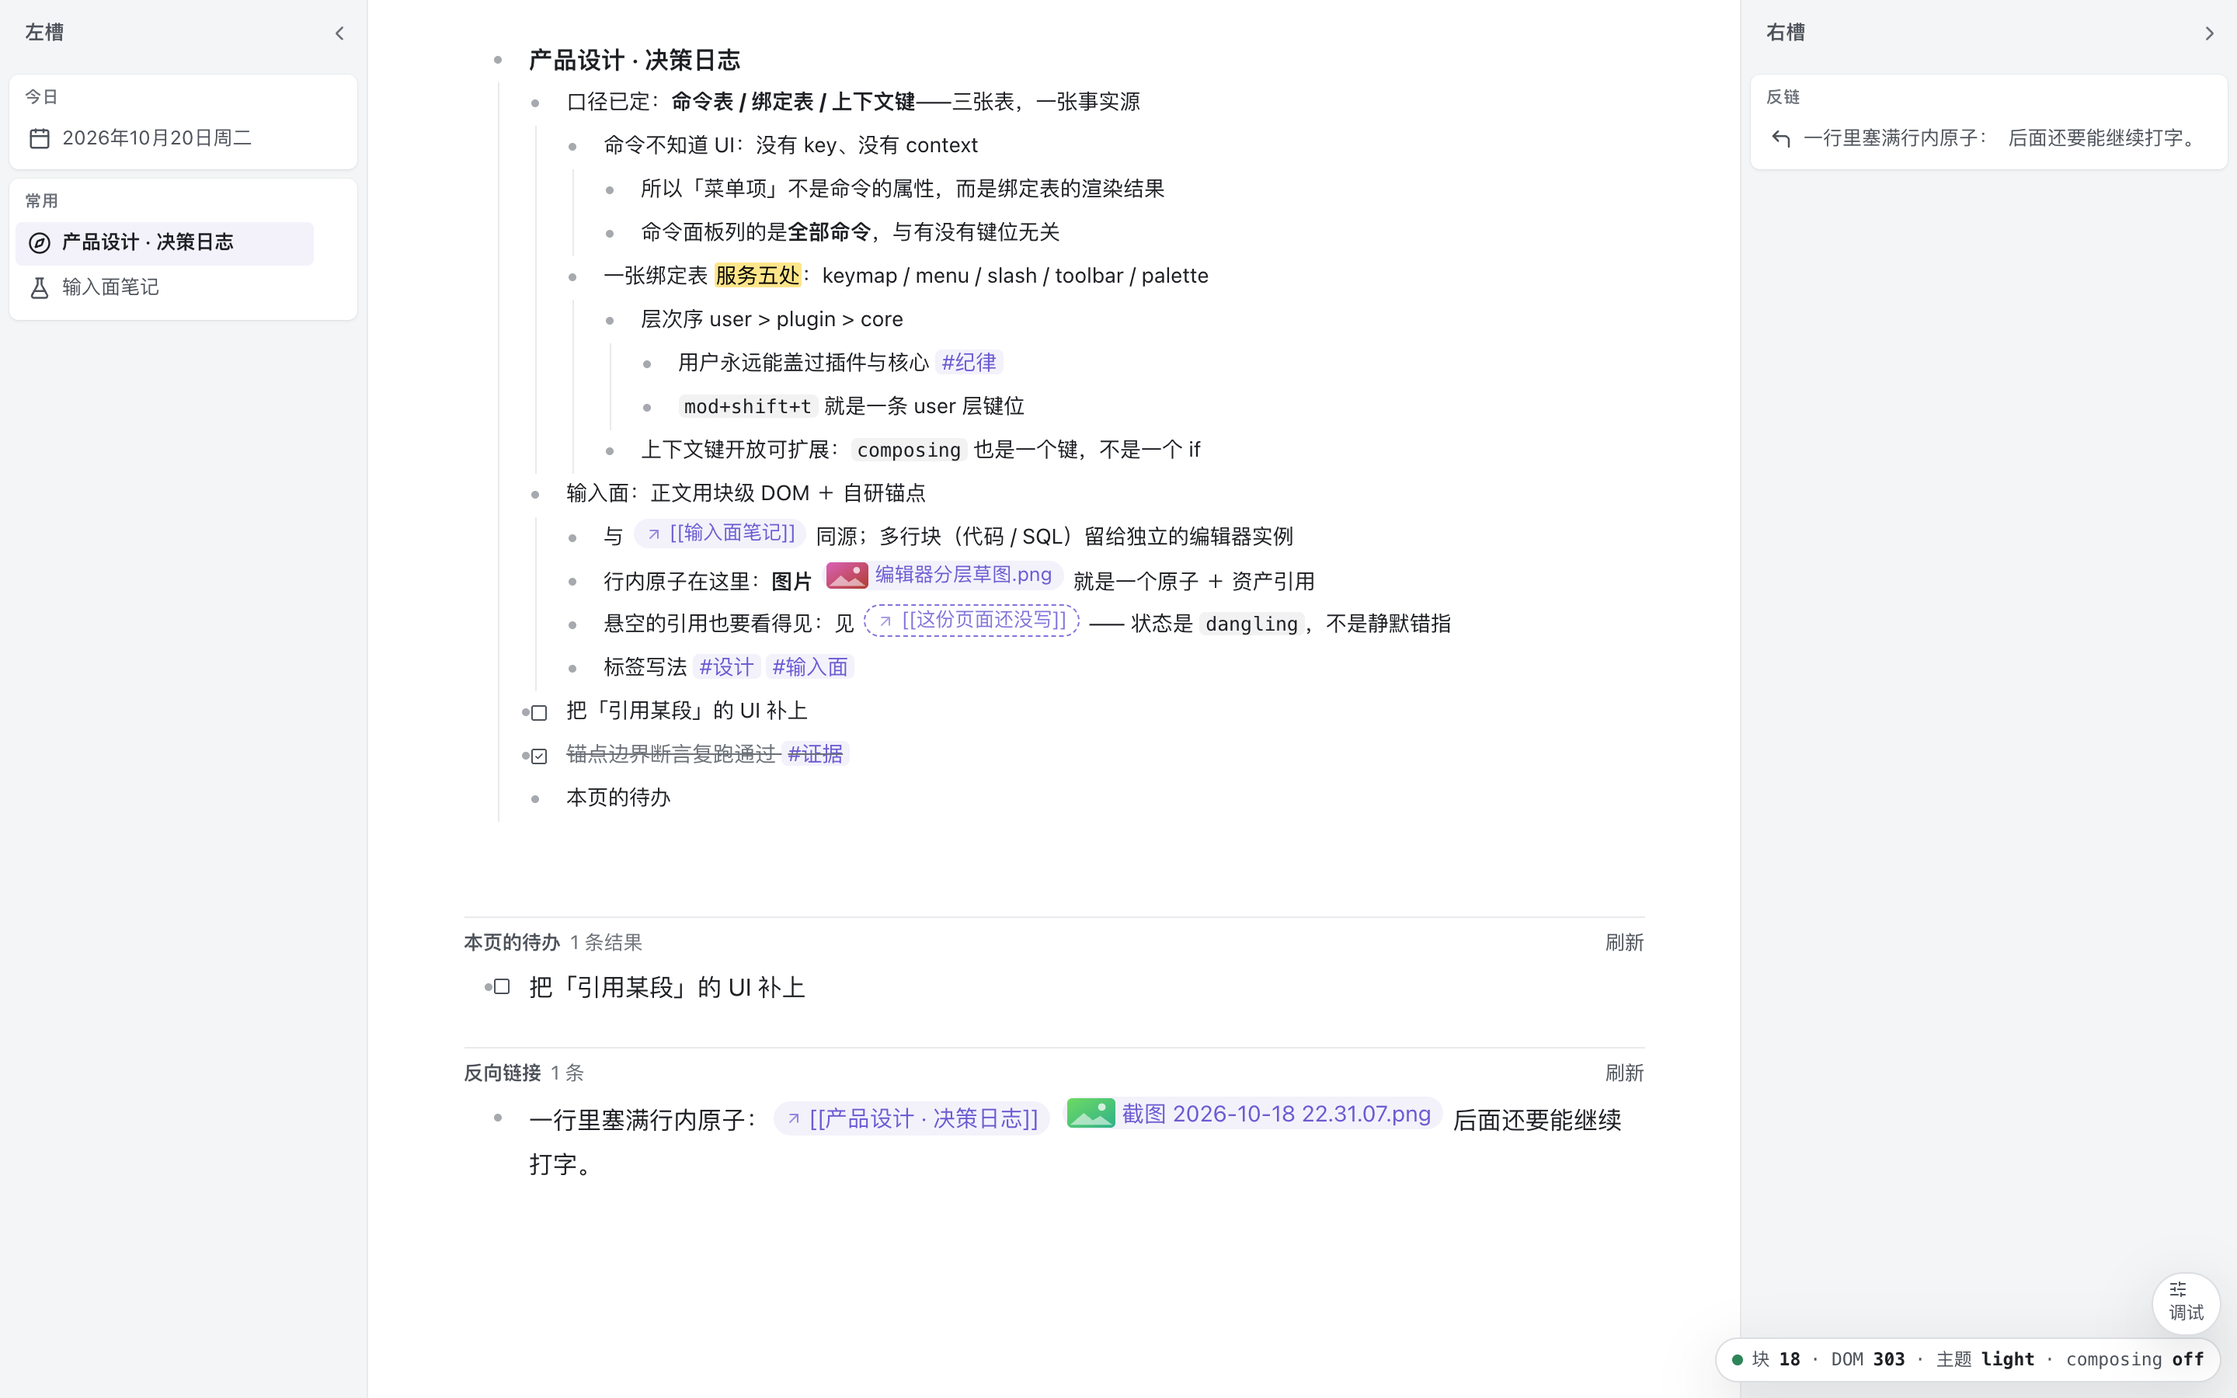
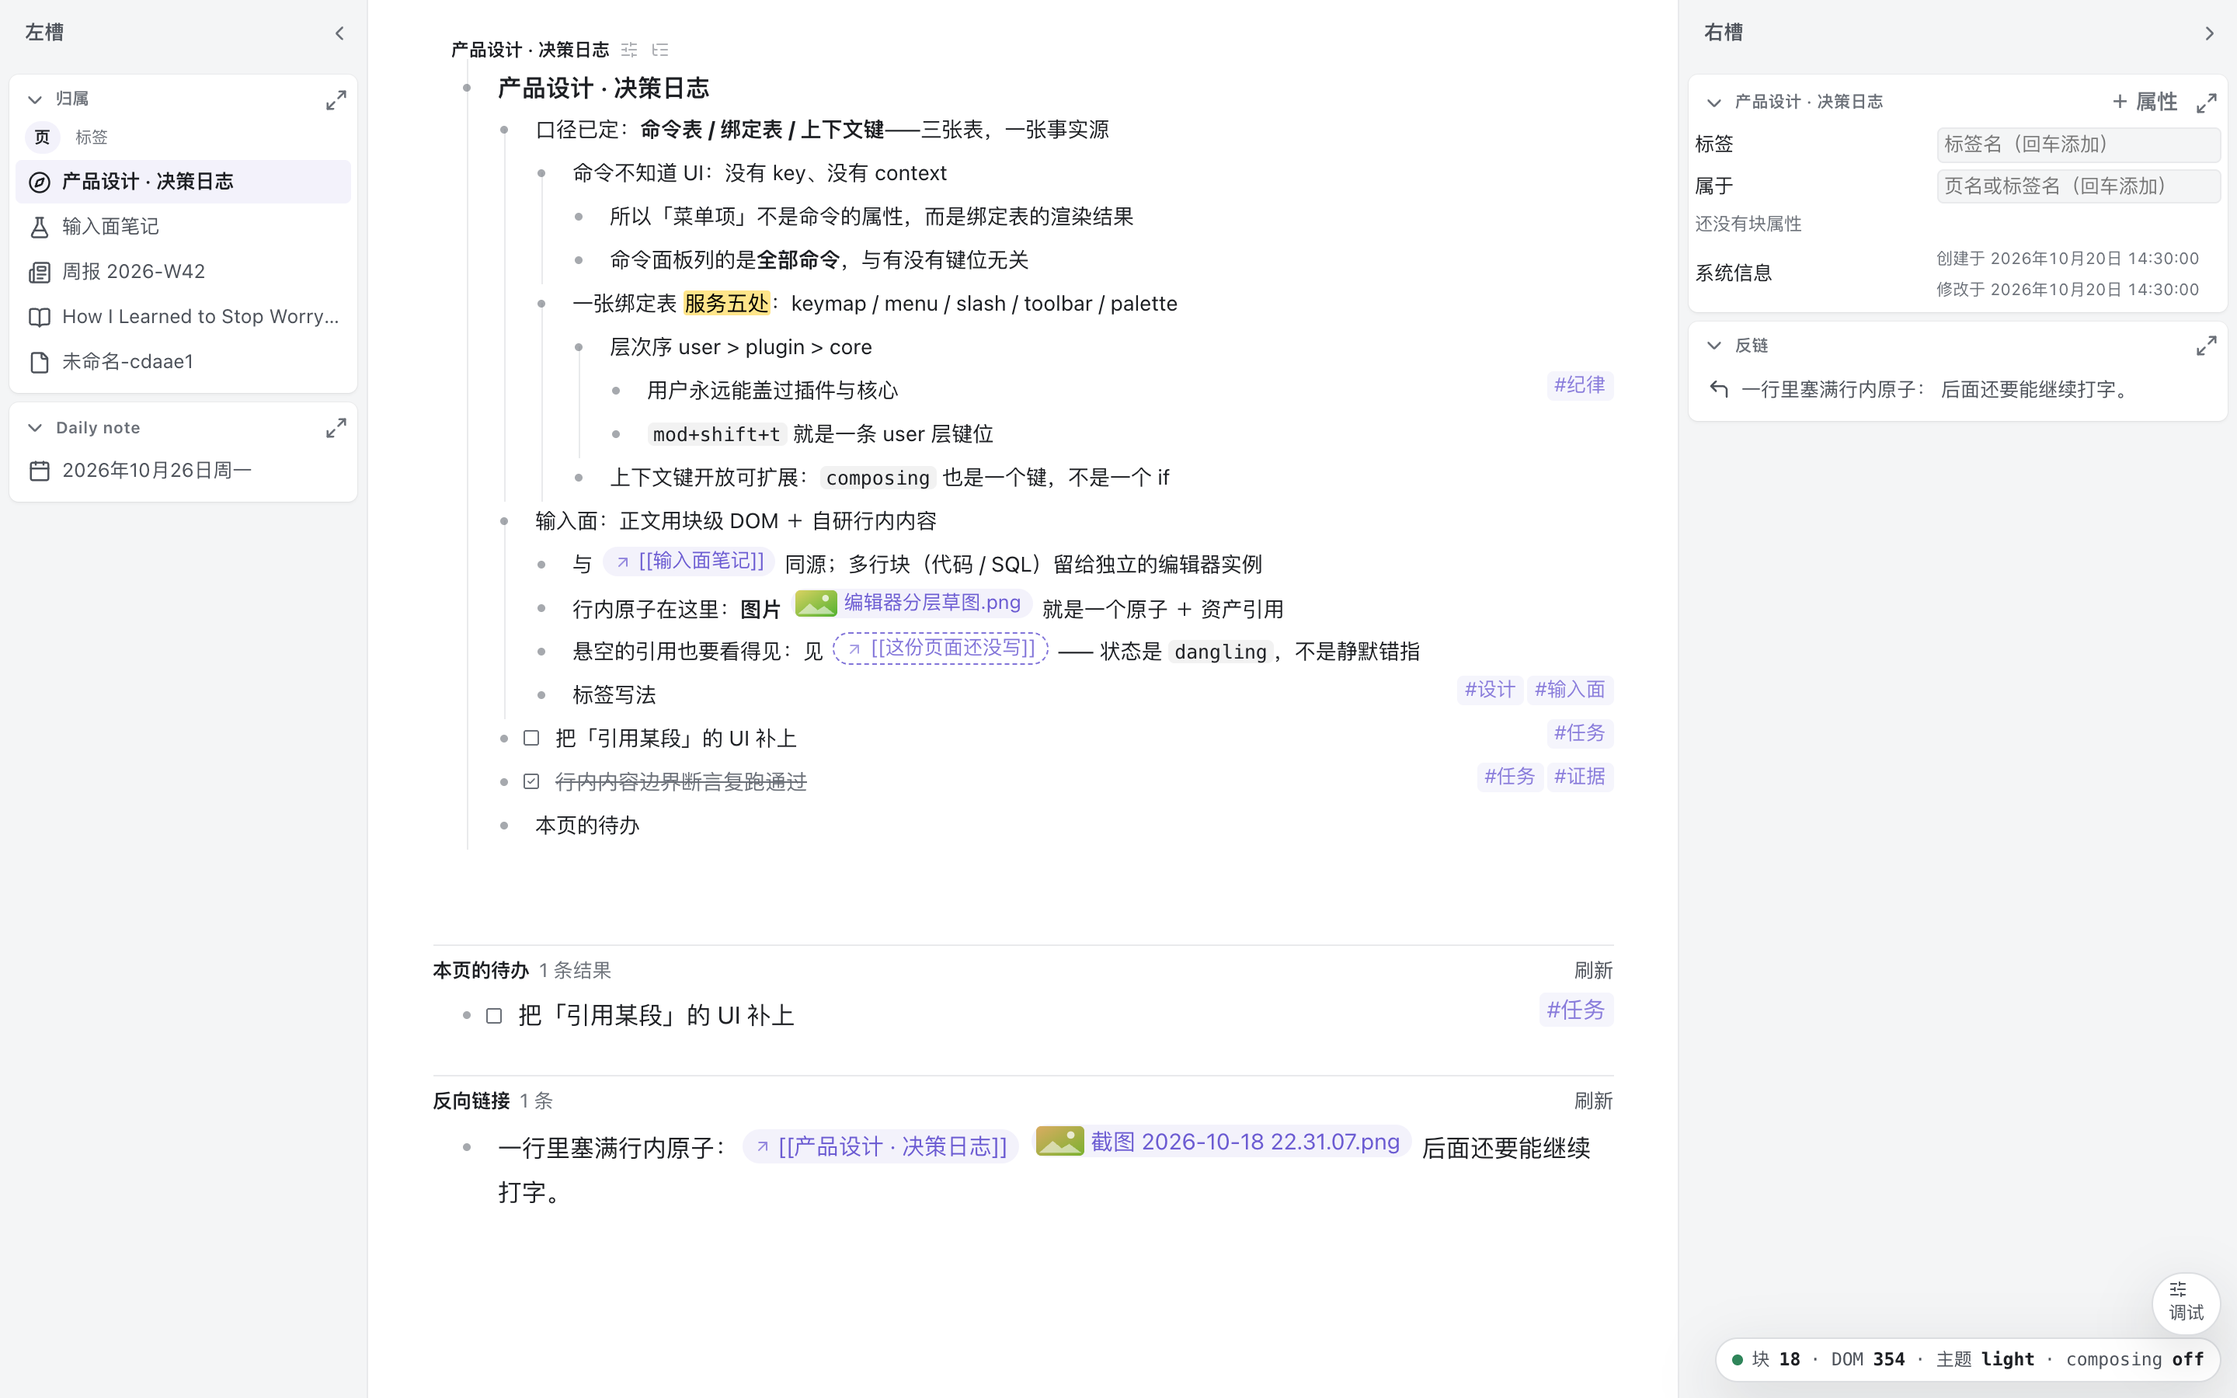
docs: 补在线演示入口，README 对齐当前实现
- 首屏与快速开始都指向在线演示，并说明数据只落在本机浏览器
- 交互表补上块选区、# / @ 浮层、复盘、翻日与槽开关
- 能力清单按当前实现补齐归属树、检视卡与系统信息
- 数据一节补上落盘版本与「原型不做迁移」的口径
- 重拍头图：左槽归属树与今日，右槽检视卡与反链

diff --git a/README.md b/README.md
@@ -3,7 +3,10 @@
 **块级大纲笔记 · 桌面版。** 一个以「**块**」为唯一一等公民的桌面笔记：
 页、日记、标签、视图、侧栏，都不是独立实体，而是块在不同位置的不同呈现。
 
-![相 / Qua——块级大纲笔记的桌面界面：左槽是今日，正文是块树，右槽是反链；页底是查询结果与反向链接](shots/readme-hero.png)
+![相 / Qua——块级大纲笔记的桌面界面：左槽是归属树与今日，正文是块树，右槽是检视卡与反链；页底是查询结果与反向链接](shots/readme-hero.png)
+
+**[在线演示 → qua.leay.net](https://qua.leay.net/)** · 不用安装，打开就能写；
+数据只落在你自己的浏览器里（`localStorage`），首次打开会载入一份假数据库。
 
 > ⚠ **这是原型，不是 v1。** 不接数据库、不接内核进程、允许硬编码假数据。
 > 当前阶段唯一不许退化的两样东西：**输入面的形状**（块树 ＋ 块内 run 序列 ＋ 稳定块 id）
@@ -42,6 +45,11 @@
 
 ## 快速开始
 
+不想装环境？先开 **[在线演示](https://qua.leay.net/)**——同一份前端构建（产品构建，不含开发工具入口），
+数据存在你自己浏览器的 `localStorage` 里，不会碰到别人的库。
+
+本地跑：
+
 ```bash
 git clone <this-repo> && cd qua
 pnpm i
@@ -73,26 +81,39 @@ pnpm dev:web      # → http://127.0.0.1:5180/
 | `Enter` | 按落点建块：块中＝同级拆；块尾＝子块（无子块/折叠时＝同级）；空块深层＝反缩进 |
 | `Backspace` | 块首 ⇒ 合并到前一块；否则原生删除 |
 | `Tab` / `Shift+Tab` | 缩进 / 取消缩进 |
-| `⌘.` | 折叠 / 展开 |
+| `⌘A` | 全选正文（跨块） |
+| `⌘⇧A` | 开始块选区；`⇧↑` / `⇧↓` 扩选，`⌫` / `Delete` 删除所选，`Esc` 取消 |
+| `⌘.` | 折叠 / 展开当前块 |
 | `⌘⏎` | 切换待办 |
-| `⌘⇧D` / `⌘⇧⌫` | 复制块（含子树）/ 删除块 |
+| `⌘⇧D` | 复制块（含子树）；**编辑器失焦时**＝回今日 |
+| `⌘⇧⌫` | 删除块 |
 | `⌘B` `⌘I` `⌘E` `` ⌘` `` | 加粗 / 斜体 / 高亮 / 行内代码（格式是**那一截文字自己的属性**，随文字走） |
-| `⌘P` | 命令面板（列全部命令、可搜、**无绑定也能执行**——这是键盘可达性的兜底） |
-| `/` | 斜杠菜单 |
+| `⌘P` / `⌘⇧P` | 命令面板（列全部命令、可搜、**无绑定也能执行**——这是键盘可达性的兜底） |
+| `/` | 斜杠菜单（行首或空白之后）；`⌘/` 随时打开 |
+| `#` | 标签浮层：`↵` 插入一枚**提及** · `⌥↵` 把标签**归到本块** · `⇧↵` 新建一条落在今天的**实例** |
+| `@` | 提及页或块（页与块同一张候选表） |
 | `⌘⇧K` | 插入 `[[引用]]` |
-| `⌘⇧N` | 新建页 |
+| `⌘⇧N` | 新建页（落在今天） |
 | `⌘⇧L` | 亮 / 暗 / 跟随系统 切换 |
 | `⌘Z` / `⇧⌘Z` | 撤销 / 重做（模型快照栈，含块结构与行内内容） |
 | `⌘[` / `⌘]` | 后退 / 前进（中心槽的导航历史；与撤销是两套） |
+| `⌘⇧R` / `⌘⌥⇧R` | 复盘：最近 3 天 / 最近 7 天 |
+| `⌘⌥←` / `⌘⌥→` | 上一天 / 下一天（仅在日记视图且编辑器失焦时） |
+| `⌘⌥1` / `⌘⌥2` | 开关左槽 / 右槽 |
+| `⌘⇧?` | 键位表 |
+| `⌘⇧V` | 虚拟化开关（user 层绑定：演示「加一条键位不改核心」） |
 
 打字键一个都没绑（未绑定 ⇒ 文本输入）；IME 组合期所有键位自动不命中。
 
 **鼠标**：悬停块左侧出现块标；**左键 ＝ 聚焦/zoom 到这块**，**右键 ＝ 块菜单**，拖动 ＝ 重排。
-**Shift+左键任何「可打开」的地方**（块标、行、行内引用、反链、面包屑）＝ **在右槽打开一个窗口**；
+**Shift+左键任何「可打开」的地方**（块标、行、行内引用、反链、面包屑、归属树的一行）＝ **在右槽打开一个窗口**；
 它不换中心、不记历史；再点只定位、不关闭，**关闭走窗口卡头的 ×**。
 块前的导轨画的是祖先层级，**点某一段就折叠那一层祖先的子块**（再点展开）。
+拖一个块到**归属树的一行**上 ＝ 给这两个块加一条「属于」边（不是把块搬走）；落到正文 ＝ 移动；
+落到侧槽 ＝ 在那一槽打开。落点含义在悬停时就写在拖拽提示里。
 
 **侧槽**：**一个块一张卡**（窗口）——把块从正文拖进左槽或右槽 = 在那一槽打开；
+左槽默认是**归属树 ＋ Daily note**，右槽默认是**检视卡 ＋ 反链**。
 卡头可以**收起**、**只看这一张**、**拖拽排序**（含左槽拖到右槽）。
 卡片里是同一份块，可直接编辑；关闭只影响视图，不删块。
 拖左右槽的内侧边缘 = 调整宽度，双击手柄 = 恢复默认。
@@ -101,28 +122,38 @@ pnpm dev:web      # → http://127.0.0.1:5180/
 
 ## 现在能做什么 / 还不做什么
 
-**能**：块树编辑 · 区间格式 · 行内引用与图片 · 折叠/拖拽/待办 · 命令面板与斜杠菜单 ·
-命令/绑定可以只在数据里加就生效 · 日记流 · 查询视图（冻结结果集 ＋ 刷新按钮 ＋ 原地编辑）·
-反链 footer（共享 block store，正文与反链同一块不打架）· 左右槽打开真实块的窗口并原地编辑 ·
-卡片收起/单卡/拖序/跨槽 · 槽宽拖拽 · 导航前进/后退 · 亮暗/跟随系统 · 虚拟化（窗口化挂载）·
-**标签＝块上的一格分类**（`props._tags`，成员按归属派生，不占正文、渲染成行尾 chip；正文里敲 `#名` 只是提及，不会让这块变成成员）·
-**标签层级**（属于/包含；查父标签能看到子标签的块，但字段不跟着继承）·
-**属性**（全局字段定义、平铺 ＋ 来源标注；画在**右槽的检视卡**上，跟着当前对象走）·
-**别名与露面**（页/标签的名字住在 `props._aliases`（首个是主名、可多名、允许 `/` 分段），
-正文（`content` 的文本投影）是描述；行头的别名编辑器可以加/删名字、设主名、勾选「页列表 / 标签列表」、
-切换这一行显示别名还是文本）·
-**列表露面**（任意块可兼作页/标签：块菜单加/减露面；页不再要求顶层）
+**能**：
+
+- **输入面**：块树编辑 · Enter 按落点建块 · 区间格式 · 行内引用与图片 · 待办 · 折叠 ·
+  拖拽重排 · 块选区（`⌘⇧A` 后整块删除、复制、复制引用）。
+- **命令与检索**：命令面板与斜杠菜单 · `#` 的三个落点（提及 / 归类 / 新建实例）·
+  `@` 提及页与块 · 命令/绑定可以只在数据里加就生效。
+- **日记与复盘**：新建页和 `#` 新建的实例都**落在今天**；日记流今日在顶、更早存在的天往下；
+  复盘 3 / 7 天（窗口里没写过的天显示空壳，落笔才物化）；上一天 / 下一天。
+- **块的身份**：**标签＝块上的一格分类**（`props._tags`，成员按归属派生，不占正文、渲染成行尾 chip；
+  正文里敲 `#名` 默认只是提及，`⌥↵` 才是把这块归进去）· **标签层级**（属于/包含；查父标签能看到
+  子标签的块，但字段不跟着继承）· **别名与露面**（名字住在 `props._aliases`：首个是主名、可多名、
+  允许 `/` 分段；正文（`content` 的文本投影）是描述；行头的别名编辑器可以加/删名字、设主名、
+  勾选「页列表 / 标签列表」、切换这一行显示别名还是文本）· **列表露面**（任意块可兼作页/标签：
+  块菜单加/减露面；页不再要求顶层）· **归属**（`props._belongsTo`：任何块都能配「属于」，
+  左槽的归属树按页/标签两面摊开，拖入＝加边，不是搬家）。
+- **属性**：全局字段定义、平铺 ＋ 来源标注；按 kind 提供文本 / 数字 / 日期 / 勾选 / 单选 / 引用 /
+  链接的编辑面；画在**右槽的检视卡**上，跟着当前对象走；另有一段只读的**系统信息**（创建 / 修改时刻）。
+- **视图与槽**：查询视图（冻结结果集 ＋ 刷新按钮 ＋ 原地编辑；条件覆盖标签 / 待办 / 属性 / 引用 /
+  某一天，结果可排序）· 反链 footer 与右槽反链卡（共享 block store，正文与反链同一块不打架）·
+  左右槽打开真实块的窗口并原地编辑 · 卡片收起/单卡/拖序/跨槽 · 槽宽拖拽 ·
+  导航前进/后退 · 亮暗/跟随系统 · 虚拟化（窗口化挂载）。
 
 **还不能**（原型边界）：
 
 - **持久化仍是整库序列化**：每次提交把整库（或整批）JSON 序列化进 localStorage；
   模型层有 `tx`／`Op` 事务语义，但没有数据库事务、没有多窗口同步。
 - **没有备份/导出入口**：读盘失败时进入只读演示态（不覆盖原数据），但用户暂时没法抢救坏库。
-- 没有自研查找（`⌘F`）、没有全文搜索（`#`／`@` 浮层不是全文检索）、没有图谱、没有导入导出；
-  界面文案只有中文（走字典，但没有多语言切换）。
-- 跨块选区能选中，但**跨块删除/替换**还没在模型侧实现。
+- 没有自研查找（`⌘F`）、没有全文搜索（`#`／`@` 浮层只扫内存里的名字与正文，不是全文索引）、
+  没有图谱、没有导入导出；界面文案只有中文（走字典，但没有多语言切换）。
+- 块选区可以整块删除/复制；但**跨块文本选区**的删除/替换还没在模型侧实现。
 - 标签页的成员 footer 可原地编辑，但成员顺序还不能手动调。
-- 属性值的编辑面按 kind 给了文本/日期/勾选/单选；`ref` 与 choices 目录还没有专用编辑 UI；
+- 属性值的编辑面已覆盖全部 kind（`ref` 有块选择器）；只有 `select` 的**选项目录**还没有编辑 UI；
   字段定义块不进任何列表（按 `_kind` 过滤，未来由字段管理视图接）。
 - 引用目标被删时显示插入时的旧名（dangling）；这是少数派状态的兜底，不假装解析成功。
 - 桌面壳未签名公证、没有自动更新、深色未在真机验证跟随系统。
@@ -144,12 +175,14 @@ core ← view ← ui ← app ← host
 - **`app/`** —— `App` 门面与命令实现。命令只经门面改状态，**不碰 `document`**。
 - **`host/`** —— `src/main.ts` 的装配 ＋ `electron/` 的壳。只做 wiring。
 
-四条硬约束由 `pnpm arch-check` 静态执行（不是约定）：
+结构约束由 `pnpm arch-check` 静态执行（当前 **19 条硬断言**，不是约定）。几条有代表性的：
 
 1. 层级只能单向依赖，`view` 不得 import `ui`；
 2. 命令 handler 不得出现 `document`／`window`；
 3. 用户可见文案不得是裸中文，一律 `t('id')` 走 `core/msg.ts` 字典；
-4. 组件不得引用基础色 `--c-*`，只能用语义槽 `--ui-*`。
+4. 组件不得引用基础色 `--c-*`，只能用语义槽 `--ui-*`；
+5. 块树遍历只有一个入口（`core/walk.ts` 的 `walkForest`），不许自己递归 `children`；
+6. 行内内容只有 run 序列一套，旧形状的零件不许复活。
 
 逐条账（哪条真在跑、哪条只能靠约定、哪条等内核）在 [`docs/ARCH-断言.md`](docs/ARCH-断言.md)。
 
@@ -161,12 +194,16 @@ core ← view ← ui ← app ← host
 pnpm dev             # 开发：vite + electron（src/** 热更新；electron/*.ts 改动要重跑）
 pnpm dev:web         # 只起 vite → http://127.0.0.1:5180/
 pnpm gate            # ★ 唯一门禁（全量）：静态 + 单测 + 构建 + 冒烟 + 布局 + 真 Electron
+pnpm gate:web        # 同 gate，但不含 Electron（公开仓 CI 的 Linux job 用它）
 pnpm gate:fast       # 日常小改动：按 git 改动只跑「碰得到的那几支」（不是收工门禁）
 pnpm arch:check      # 只跑架构静态断言（秒级）
 pnpm test:core       # 只跑纯 core 单测（node --test，零依赖）
 pnpm check           # 浏览器级冒烟（真 Chrome、真按键、真鼠标）
+pnpm check:smoke     # 只跑浏览器冒烟，不重建 dist
 pnpm check:dock      # 槽与排版形状的布局断言（真量尺寸）
 pnpm check:electron  # 真 Electron 冒烟
+pnpm check:bundle    # 打包产物冒烟（要现有 .app，慢，单列）
+pnpm gate:bundle     # gate + 打包产物冒烟
 pnpm shots           # 截图 ⇒ shots/
 pnpm build:mac       # 打包 .app（未签名，首次需右键打开）
 ```
@@ -198,7 +235,10 @@ pnpm build:mac       # 打包 .app（未签名，首次需右键打开）
 在 Electron 里它落在 `~/Library/Application Support/net.leay.qua/Local Storage/`。
 
 ⚠ **改这个键名＝所有用户的数据静默消失**，所以 `arch-check` 有一条断言把值钉死。
-真要改键，必须先改断言、再写迁移。见 [`docs/ARCH-断言.md`](docs/ARCH-断言.md)。
+
+落盘形状的版本号是 `WORKSPACE_VERSION`（`src/core/storage/shape.ts`）。原型**不做旧数据迁移**：
+模型或落盘口径一变就把版本号加一，旧库显式作废、重新 seed，不写兼容分支。
+在浏览器（含[在线演示](https://qua.leay.net/)）里，同一份键落在那个站点的 `localStorage` 中。
 
 数据目录的整体形状（`kb/` `logs/` `cache/` …）见 [`electron/userdata/README.md`](electron/userdata/README.md)。
 
@@ -224,6 +264,7 @@ pnpm build:mac       # 打包 .app（未签名，首次需右键打开）
 | `docs/模型-一切皆块.md` | 改模型的人 | 模型第一性、三条判据、已否决清单 |
 | `docs/ARCH-断言.md` | 贡献者 | 架构断言逐条账：能静态查的 / 只能靠约定的 / 等内核的 |
 | `docs/ELECTRON-备忘.md` | 改壳的人 | 桌面壳踩坑、与 Chrome 的行为差异、真机实测 |
+| `TODO.md` | 贡献者 | 已知 bug 与概念澄清（QB 编号、复现步骤、状态） |
 | `electron/userdata/` | 发布/排障 | 运行时数据目录的形状 |
 
 ---
